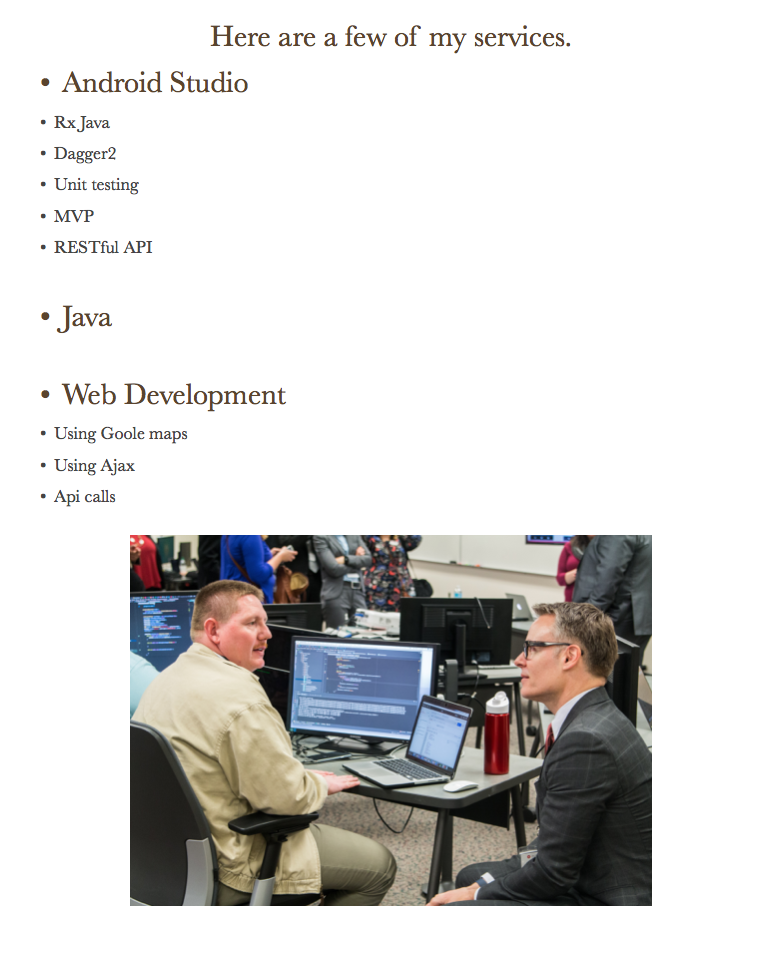
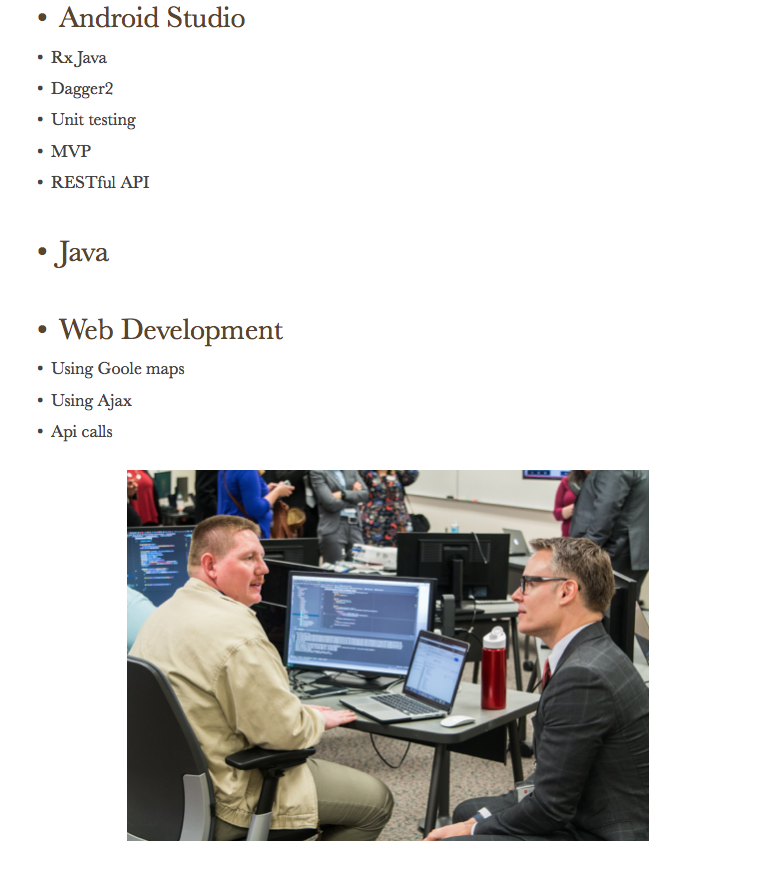
hey

Changed region(s): [[0.154, 0.5228, 0.8318, 0.9841], [0.0308, 0.0, 0.7394, 0.5228]]

diff --git a/index.html b/index.html
@@ -160,10 +160,12 @@
 			<div col-md-6 col-sm-6 col-xs-12>
 				<div align="center">
 					<br/>
+					<br/>
+					<br/>
 					<h1><br/>Services</h1>
+					<p>A few of my Sevices.</p>
 					<hr class="pg-titl-bdr-btm"></hr>
 					<img src="img/services.png">
-					<hr class="pg-titl-bdr-btm"></hr>
 				</div>	
 			</div>
 		</div>
